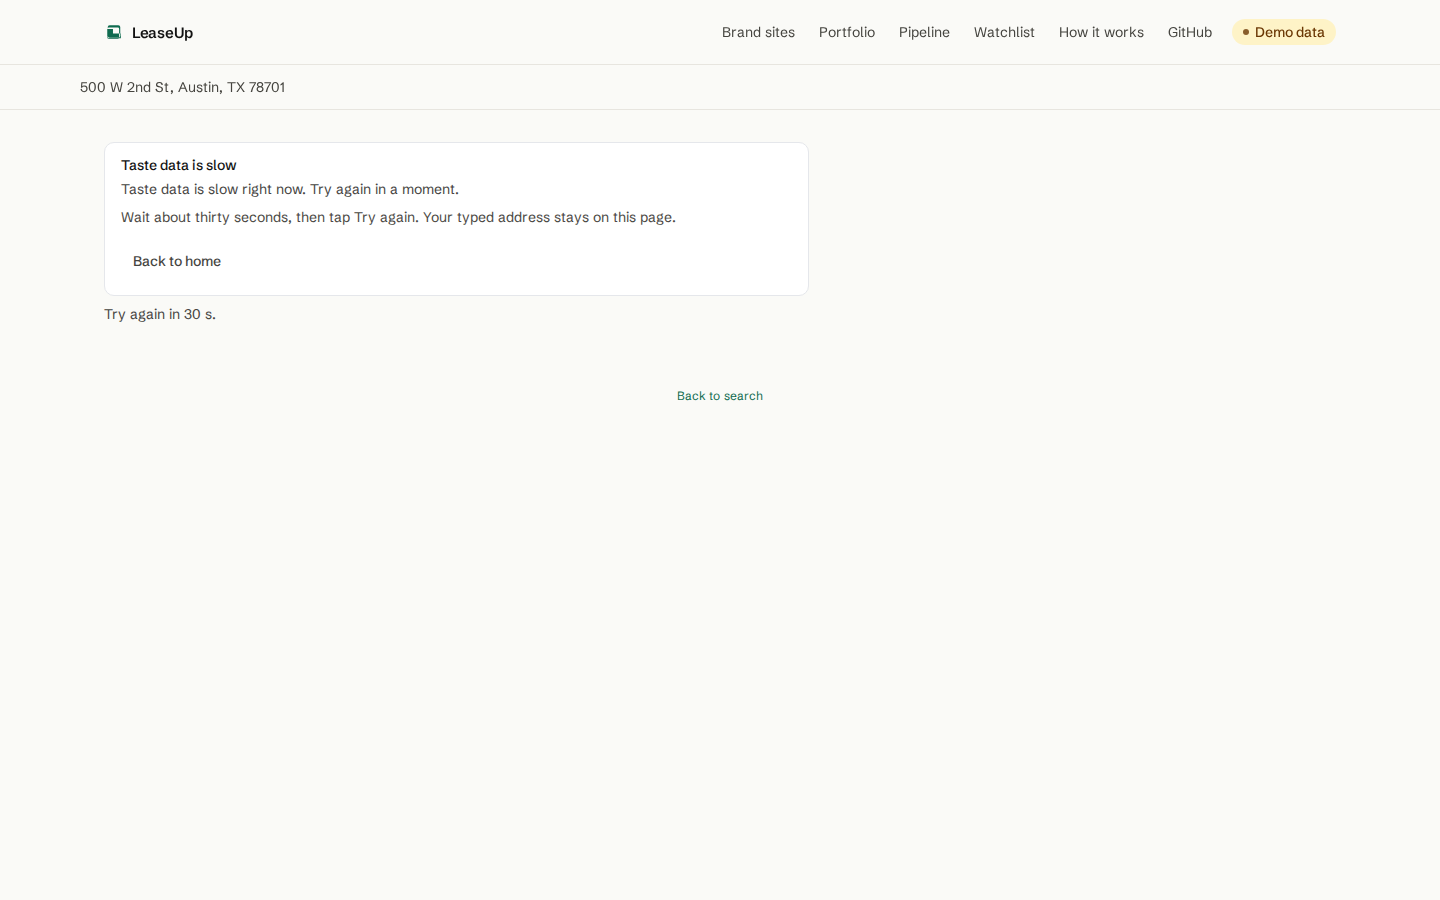
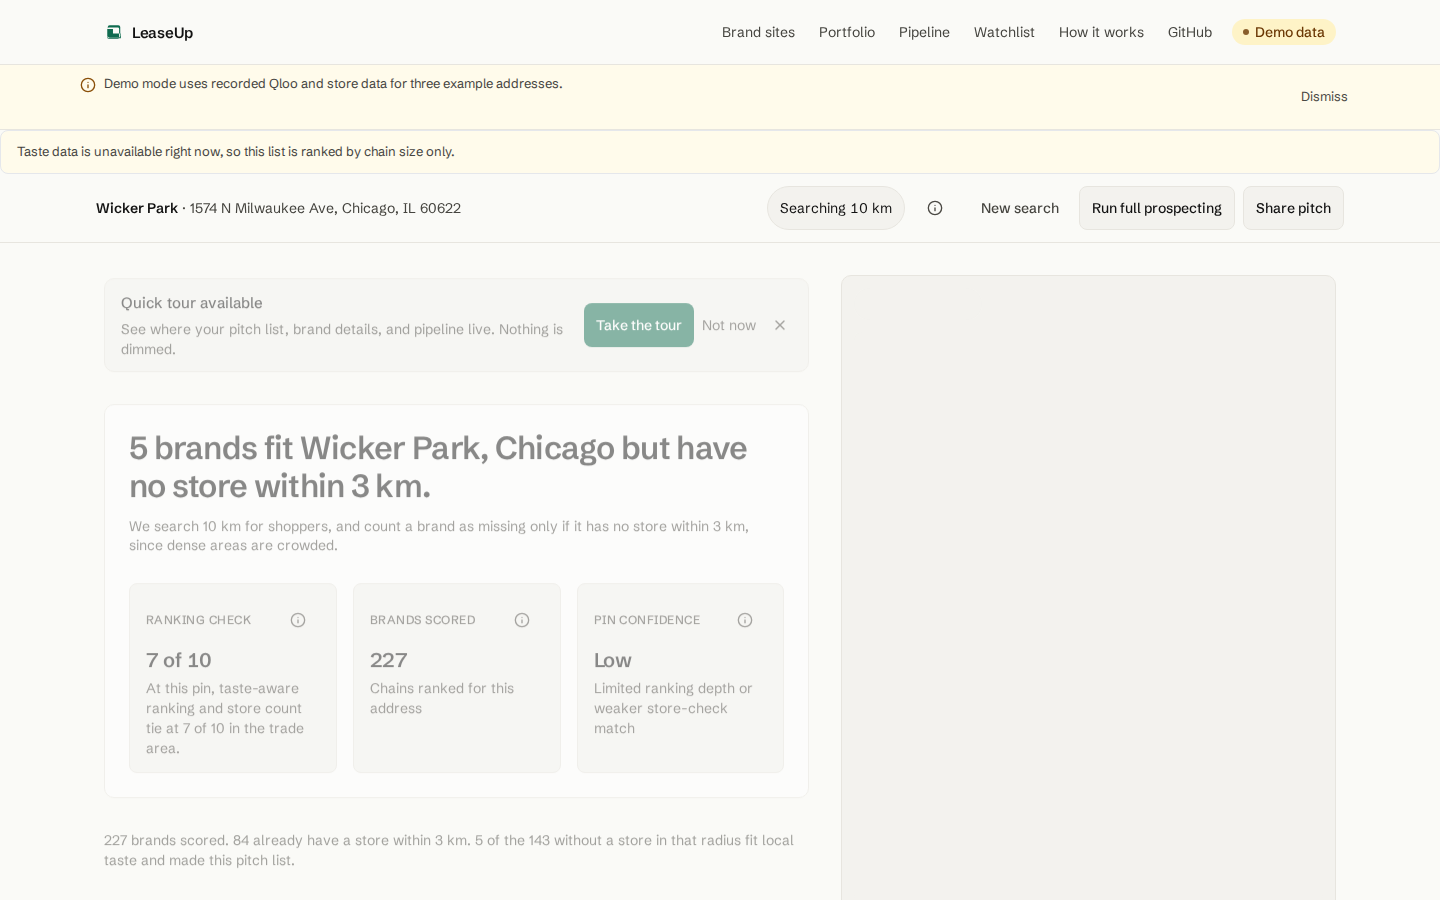
Restore Qloo chain-size fallback; fix robustness Qloo e2e and screenshots
Re-enable taste step fallback with TasteUnavailableBanner behavior.
Restore qloo-down unit and Playwright specs.
Run Qloo-down robustness case against FORCE_QLOO_DOWN worker on a dedicated preview port.

diff --git a/apps/worker/src/__tests__/qloo-down-analyze.test.ts b/apps/worker/src/__tests__/qloo-down-analyze.test.ts
@@ -1,10 +1,12 @@
 import { describe, it, expect, vi, beforeEach, afterEach } from 'vitest';
 import { AnalysisService } from '../services/analysis';
 import { DEMO_CHIP_ADDRESSES } from '@leaseup/fixtures';
+import { TASTE_UNAVAILABLE_RANKING_NOTICE } from '../lib/qloo-chain-fallback';
 import {
   createCountingKvNamespace,
   installWorkersCacheApiStub,
 } from './helpers/kv-counting';
+import { KV_ROUTE_BUDGET } from '../lib/kv-route-budget';
 
 const db = {
   prepare: () => {
@@ -40,29 +42,49 @@ describe('analyze when Qloo is unavailable', () => {
     vi.restoreAllMocks();
   });
 
-  it('fails analyze when FORCE_QLOO_DOWN (no chain-size ranking)', async () => {
-    const { env } = demoEnv(true);
+  it('returns chain-size-ranked report with notice (FORCE_QLOO_DOWN)', async () => {
+    const { env, kv } = demoEnv(true);
     const service = new AnalysisService(env);
-    await expect(
-      service.analyze(
-        { address: DEMO_CHIP_ADDRESSES.wicker, radius: 10 },
-        'qloo-down-run',
-        'ip'
-      )
-    ).rejects.toMatchObject({ code: 'QLOO_UNAVAILABLE' });
+    const started = performance.now();
+    const result = await service.analyze(
+      { address: DEMO_CHIP_ADDRESSES.wicker, radius: 10 },
+      'qloo-down-run',
+      'ip'
+    );
+    expect(performance.now() - started).toBeLessThan(15_000);
+    expect(result.tasteDataStatus).toBe('unavailable');
+    expect(result.rankingNotice).toBe(TASTE_UNAVAILABLE_RANKING_NOTICE);
+    expect(result.prospects.length).toBeGreaterThan(0);
+    expect(result.warnings).toContain(TASTE_UNAVAILABLE_RANKING_NOTICE);
+    for (const pack of result.prospects) {
+      expect(pack.brand.affinity).toBe(0);
+      expect(pack.brand.tasteFitBeyondChainPercentile).toBeUndefined();
+      expect(pack.tradeAreaTaste).toBeUndefined();
+    }
+    for (const row of result.rankings ?? []) {
+      expect(row.affinity).toBe(0);
+      expect(row.tasteFitBeyondChainPercentile).toBeUndefined();
+    }
+    expect(result.tradeAreaShoppers).toBeUndefined();
+    expect(kv.puts).toHaveLength(KV_ROUTE_BUDGET.analyzeCold.puts);
+    expect(kv.gets).toHaveLength(KV_ROUTE_BUDGET.analyzeCold.gets);
   });
 
-  it('analyzeWithSteps propagates Qloo outage', async () => {
+  it('analyzeWithSteps streams taste step then completes', async () => {
     const { env } = demoEnv(true);
     const service = new AnalysisService(env);
-    await expect(
-      service.analyzeWithSteps(
-        { address: DEMO_CHIP_ADDRESSES.wicker, radius: 10 },
-        'qloo-down-stream',
-        'ip',
-        async () => undefined
-      )
-    ).rejects.toMatchObject({ code: 'QLOO_UNAVAILABLE' });
+    const steps: string[] = [];
+    const result = await service.analyzeWithSteps(
+      { address: DEMO_CHIP_ADDRESSES.wicker, radius: 10 },
+      'qloo-down-stream',
+      'ip',
+      async (step) => {
+        steps.push(step.id);
+      }
+    );
+    expect(steps).toContain('taste');
+    expect(result.tasteDataStatus).toBe('unavailable');
+    expect(result.prospects.length).toBeGreaterThan(0);
   });
 });
 
@@ -103,7 +125,7 @@ describe('analyze when live Qloo HTTP fails', () => {
   });
 
   for (const status of [503, 429, 500]) {
-    it(`fails analyze on Qloo HTTP ${status} (no fabricated rankings)`, async () => {
+    it(`falls back on Qloo HTTP ${status}`, async () => {
       vi.mocked(fetch).mockImplementation(async (input: RequestInfo | URL) => {
         const url = String(input);
         if (url.includes('/v2/insights')) {
@@ -135,13 +157,14 @@ describe('analyze when live Qloo HTTP fails', () => {
         APP_MODE: 'live',
         QLOO_API_KEY: 'test-key',
       } as import('../index').Env;
-      await expect(
-        new AnalysisService(env).analyze(
-          { address: '1574 N Milwaukee Ave, Chicago, IL 60622', radius: 10 },
-          `qloo-${status}`,
-          'ip'
-        )
-      ).rejects.toMatchObject({ code: 'QLOO_UNAVAILABLE' });
+      const result = await new AnalysisService(env).analyze(
+        { address: '1574 N Milwaukee Ave, Chicago, IL 60622', radius: 10 },
+        `qloo-${status}`,
+        'ip'
+      );
+      expect(result.tasteDataStatus).toBe('unavailable');
+      expect(result.prospects.length).toBeGreaterThan(0);
+      expect(result.prospects.every((p) => p.brand.affinity === 0)).toBe(true);
     });
   }
 });

diff --git a/e2e/analyze-robustness.spec.ts b/e2e/analyze-robustness.spec.ts
@@ -1,8 +1,10 @@
 import { test, expect } from '@playwright/test';
+import { waitForReportReady } from './report-helpers';
 
 const BASE = process.env.PLAYWRIGHT_BASE_URL || 'http://localhost:4173';
 const AMBIGUOUS = '1574 N Milwaukee Ave, Chicago';
 const CONFIRMED_RURAL = '1 Main St, Chicken, AK 99732';
+const WICKER = '1574 N Milwaukee Ave, Chicago, IL 60622';
 
 function corsHeaders() {
   return {
@@ -134,51 +136,15 @@ test.describe('Analyze robustness (typed addresses)', () => {
     await expect(page.getByText(/fabricated|chain size only/i)).toHaveCount(0);
   });
 
-  test('Qloo timeout on analyze shows taste error, not server busy', async ({ page }) => {
-    await page.route('**/api/geocode', async (route) => {
-      await route.fulfill({
-        status: 200,
-        contentType: 'application/json',
-        headers: corsHeaders(),
-        body: JSON.stringify({
-          needsConfirmation: false,
-          candidates: [],
-          location: {
-            address: '500 W 2nd St, Austin, TX 78701',
-            latitude: 30.27,
-            longitude: -97.74,
-            city: 'Austin',
-            resolvedAddress: '500 W 2nd St, Austin, TX 78701',
-          },
-        }),
-      });
-    });
-
-    await page.route('**/api/analyze/stream', async (route) => {
-      if (route.request().method() !== 'POST') {
-        await route.continue();
-        return;
-      }
-      const sse = `event: error\ndata: ${JSON.stringify({
-        message: 'Taste data is slow right now. Try again in a moment.',
-        code: 'QLOO_UNAVAILABLE',
-        retryAfterSec: 30,
-      })}\n\n`;
-      await route.fulfill({
-        status: 200,
-        headers: {
-          ...corsHeaders(),
-          'Content-Type': 'text/event-stream; charset=utf-8',
-        },
-        body: sse,
-      });
-    });
-
-    await page.goto(
-      `${BASE}/r/run?address=${encodeURIComponent('500 W 2nd St, Austin, TX 78701')}&radius=10`
-    );
-    await expect(page.getByTestId('report-error')).toBeVisible({ timeout: 25_000 });
-    await expect(page.getByText('Taste data is slow', { exact: true })).toBeVisible();
-    await expect(page.getByText(/servers are busy/i)).toHaveCount(0);
+  test('Qloo down uses chain-size fallback with banner and pitch list', async ({ page }) => {
+    test.skip(process.env.PLAYWRIGHT_QLOO_DOWN !== '1', 'Requires worker FORCE_QLOO_DOWN=1');
+    await page.goto(`${BASE}/r/wicker?address=${encodeURIComponent(WICKER)}&radius=10`);
+    const banner = page.getByTestId('taste-unavailable-banner');
+    await expect(banner).toBeVisible({ timeout: 90_000 });
+    await expect(banner).toContainText(/ranked by chain size only/i);
+    await waitForReportReady(page);
+    await expect(page.getByText(/taste fit/i)).toHaveCount(0);
+    await expect(page.getByTestId('brands-to-pitch').locator('li').first()).toBeVisible();
+    await expect(page.getByTestId('report-error')).toHaveCount(0);
   });
 });

diff --git a/e2e/qloo-down.spec.ts b/e2e/qloo-down.spec.ts
@@ -1,10 +1,11 @@
 import { test, expect } from '@playwright/test';
+import { waitForReportReady } from './report-helpers';
 
 const BASE = process.env.PLAYWRIGHT_BASE_URL || 'http://localhost:4173';
 const WICKER = '1574 N Milwaukee Ave, Chicago, IL 60622';
 
-test.describe('Qloo unavailable', () => {
-  test('report shows calm taste error instead of chain-size rankings', async ({ page }) => {
+test.describe('Qloo unavailable fallback', () => {
+  test('report shows chain-size notice and still lists brands', async ({ page }) => {
     test.setTimeout(120_000);
     const consoleErrors: string[] = [];
     page.on('console', (msg) => {
@@ -13,10 +14,12 @@ test.describe('Qloo unavailable', () => {
     page.on('pageerror', (err) => consoleErrors.push(err.message));
 
     await page.goto(`${BASE}/r/wicker?address=${encodeURIComponent(WICKER)}&radius=10`);
-    await expect(page.getByTestId('report-error')).toBeVisible({ timeout: 90_000 });
-    await expect(page.getByText('Taste data is slow', { exact: true })).toBeVisible();
-    await expect(page.getByText(/ranked by chain size only/i)).toHaveCount(0);
-    await expect(page.getByTestId('brands-to-pitch').locator('li')).toHaveCount(0);
+    const banner = page.getByTestId('taste-unavailable-banner');
+    await expect(banner).toBeVisible({ timeout: 90_000 });
+    await expect(banner).toContainText(/ranked by chain size only/i);
+    await waitForReportReady(page);
+    await expect(page.getByText(/taste fit/i)).toHaveCount(0);
+    await expect(page.getByTestId('brands-to-pitch').locator('li').first()).toBeVisible();
     const severe = consoleErrors.filter(
       (line) => !/favicon|404|devtools/i.test(line) && !/QLOO_UNAVAILABLE/i.test(line)
     );

diff --git a/apps/worker/src/__tests__/qloo-analyze-resilience.test.ts b/apps/worker/src/__tests__/qloo-analyze-resilience.test.ts
@@ -97,7 +97,7 @@ describe('analyze Qloo resilience (fixtures only)', () => {
     expect(result.prospects.some((p) => p.tradeAreaTaste === undefined)).toBe(true);
   });
 
-  it('fails analyze when main Qloo insights time out (no chain-size ranking)', async () => {
+  it('falls back to chain-size ranking when main Qloo insights time out', async () => {
     vi.stubGlobal(
       'fetch',
       vi.fn(async (input: string | URL | Request) => {
@@ -124,9 +124,15 @@ describe('analyze Qloo resilience (fixtures only)', () => {
     );
 
     const service = new AnalysisService(liveEnv());
-    await expect(
-      service.analyze({ address: COLD_ANALYZE_ADDRESS, radius: 10 }, 'slow-main-qloo', 'ip')
-    ).rejects.toMatchObject({ code: 'QLOO_UNAVAILABLE' });
+    const result = await service.analyze(
+      { address: COLD_ANALYZE_ADDRESS, radius: 10 },
+      'slow-main-qloo',
+      'ip'
+    );
+
+    expect(result.tasteDataStatus).toBe('unavailable');
+    expect(result.rankingNotice).toBe(TASTE_UNAVAILABLE_RANKING_NOTICE);
+    expect(result.prospects.length).toBeGreaterThan(0);
   });
 
   it('analyzeStreamErrorPayload preserves QLOO_UNAVAILABLE code', async () => {

diff --git a/apps/worker/src/build-meta.ts b/apps/worker/src/build-meta.ts
@@ -1,3 +1,8 @@
 /** Generated by scripts/generate-build-meta.mjs — do not edit. */
+<<<<<<< HEAD
 export const BUILD_GIT_SHA = "24d9e4e";
 export const BUILD_TIME = "2026-10-24T11:27:47.522Z";
+=======
+export const BUILD_GIT_SHA = "7291180";
+export const BUILD_TIME = "2026-10-24T11:46:40.635Z";
+>>>>>>> 64466de (Restore Qloo chain-size fallback; fix robustness Qloo e2e and screenshots)

diff --git a/apps/worker/src/services/analysis.ts b/apps/worker/src/services/analysis.ts
@@ -186,7 +186,7 @@ export class AnalysisService {
 
       const qlooLocation = this.buildQlooLocation(location, request.address, request.radius);
 
-      const tasteUnavailable = false;
+      let tasteUnavailable = false;
       const insights = await runStep(
         emit,
         'taste',
